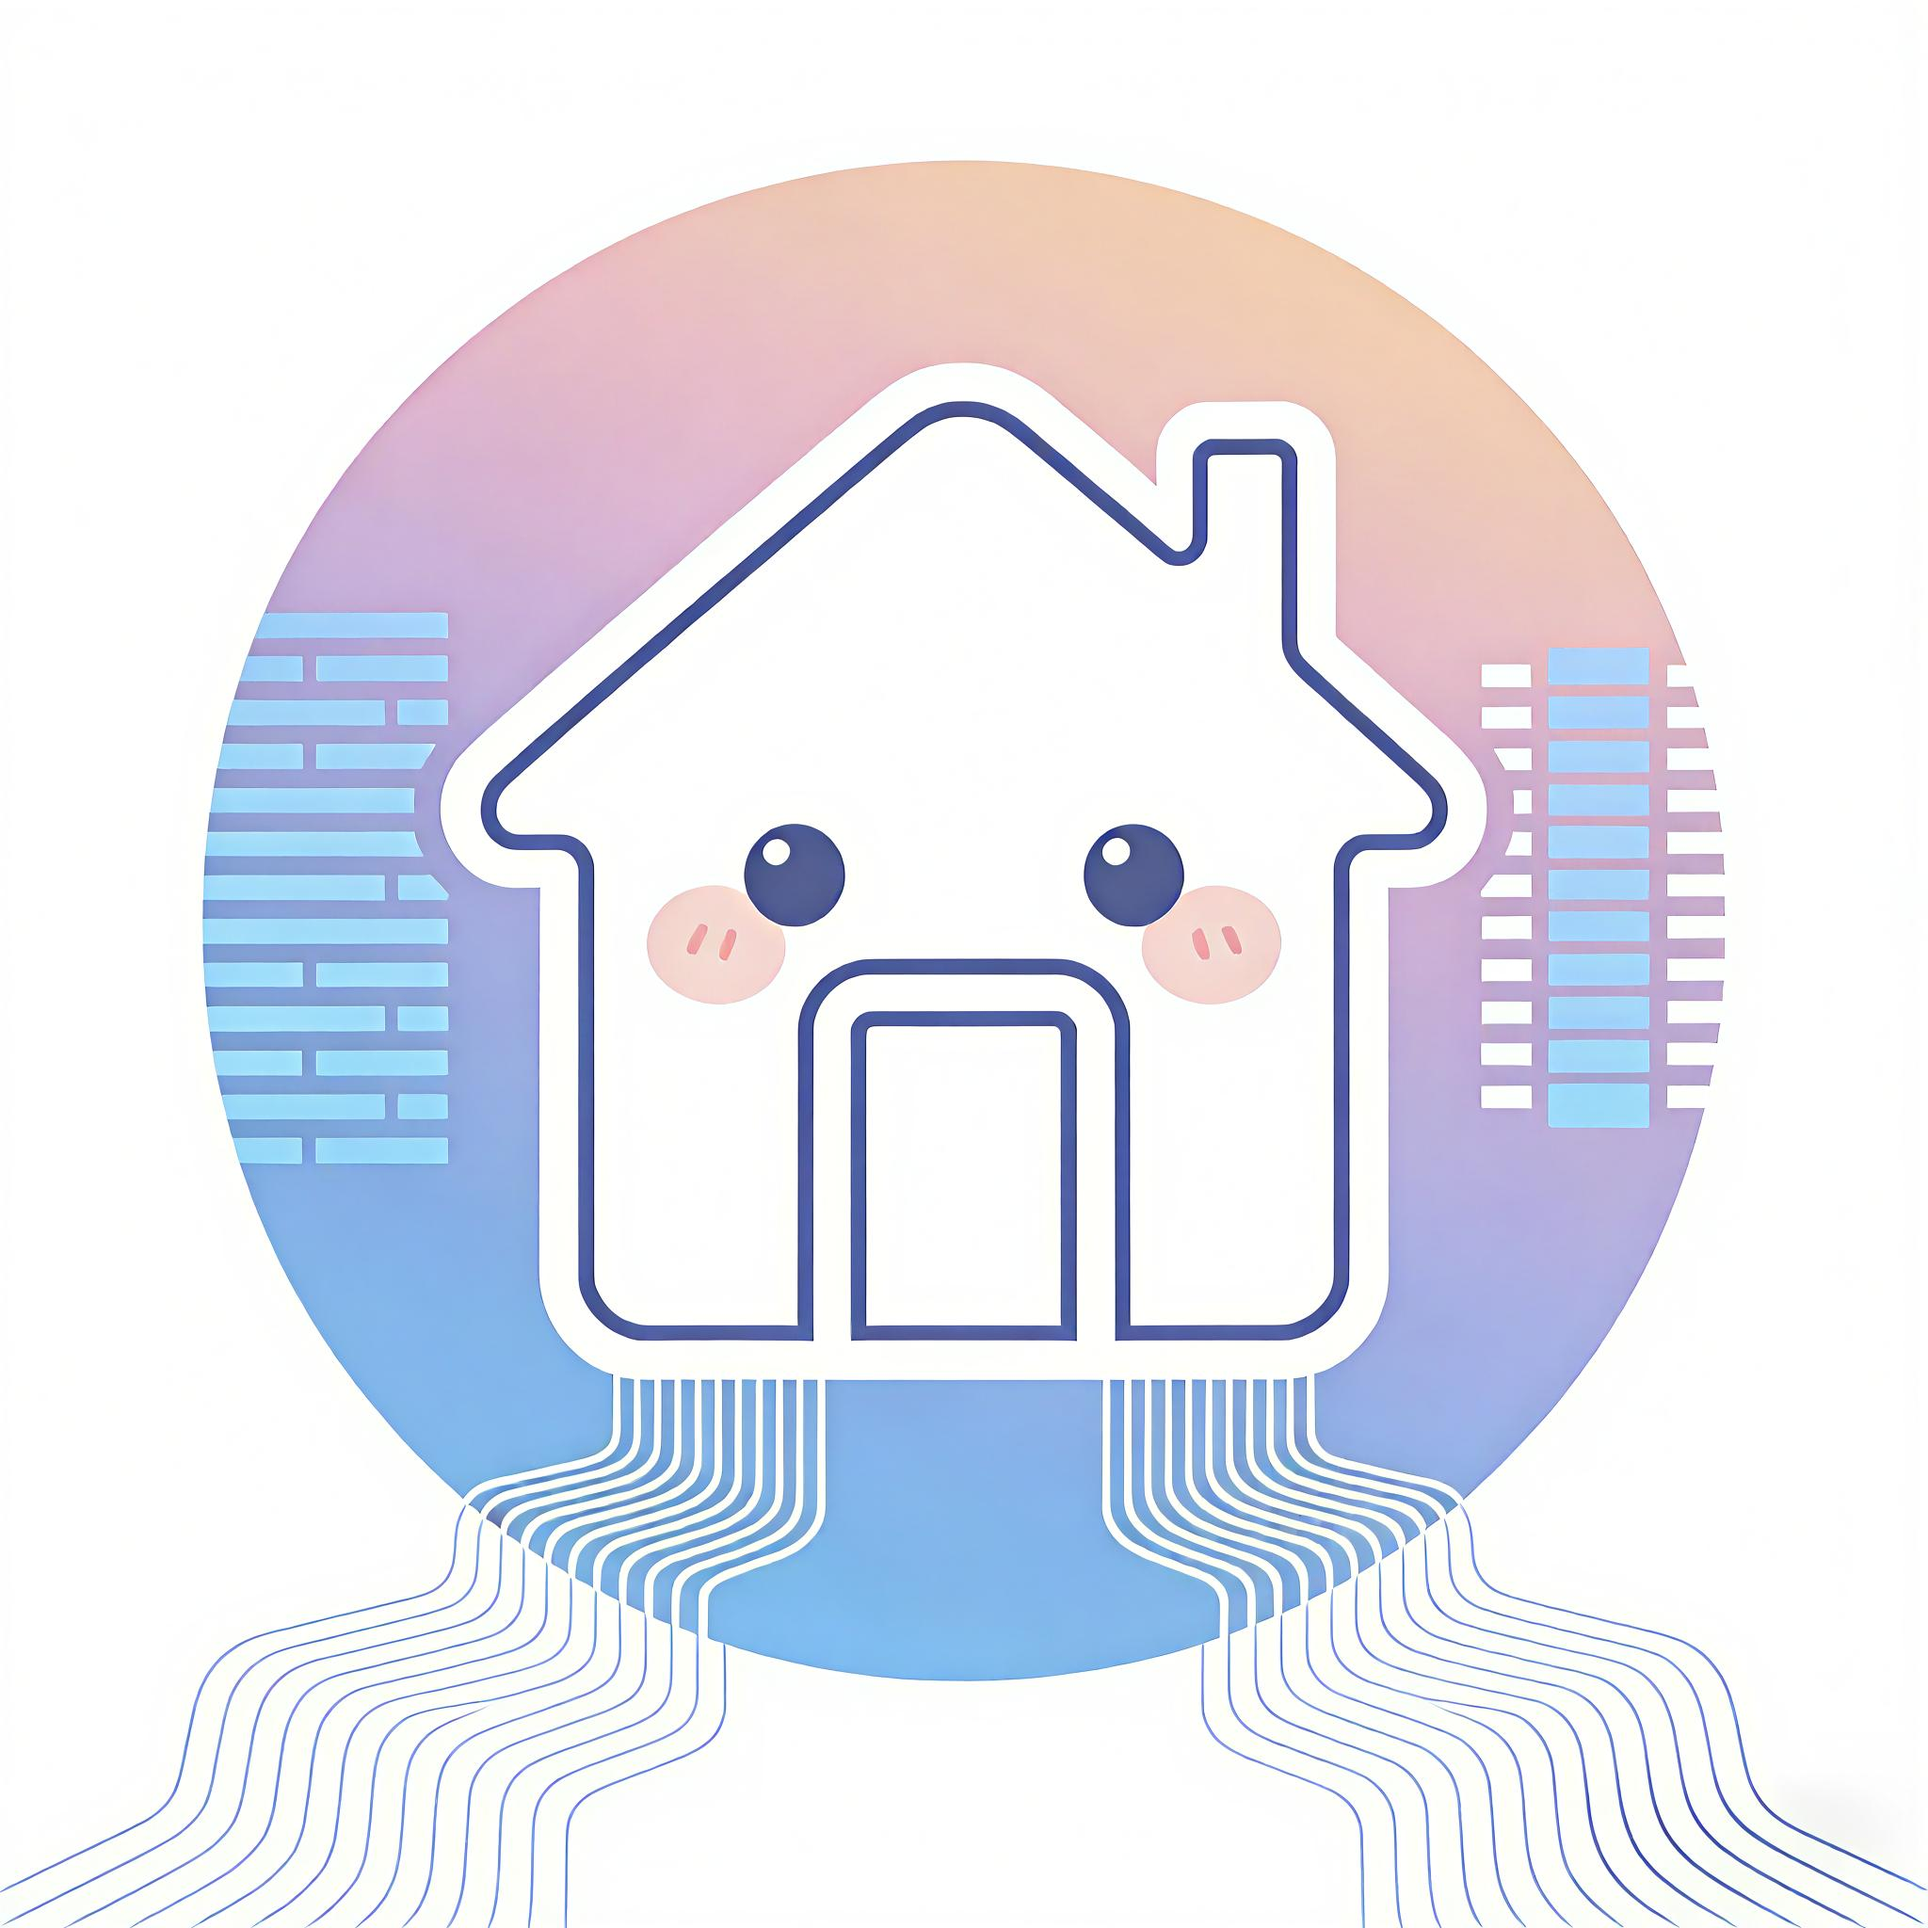
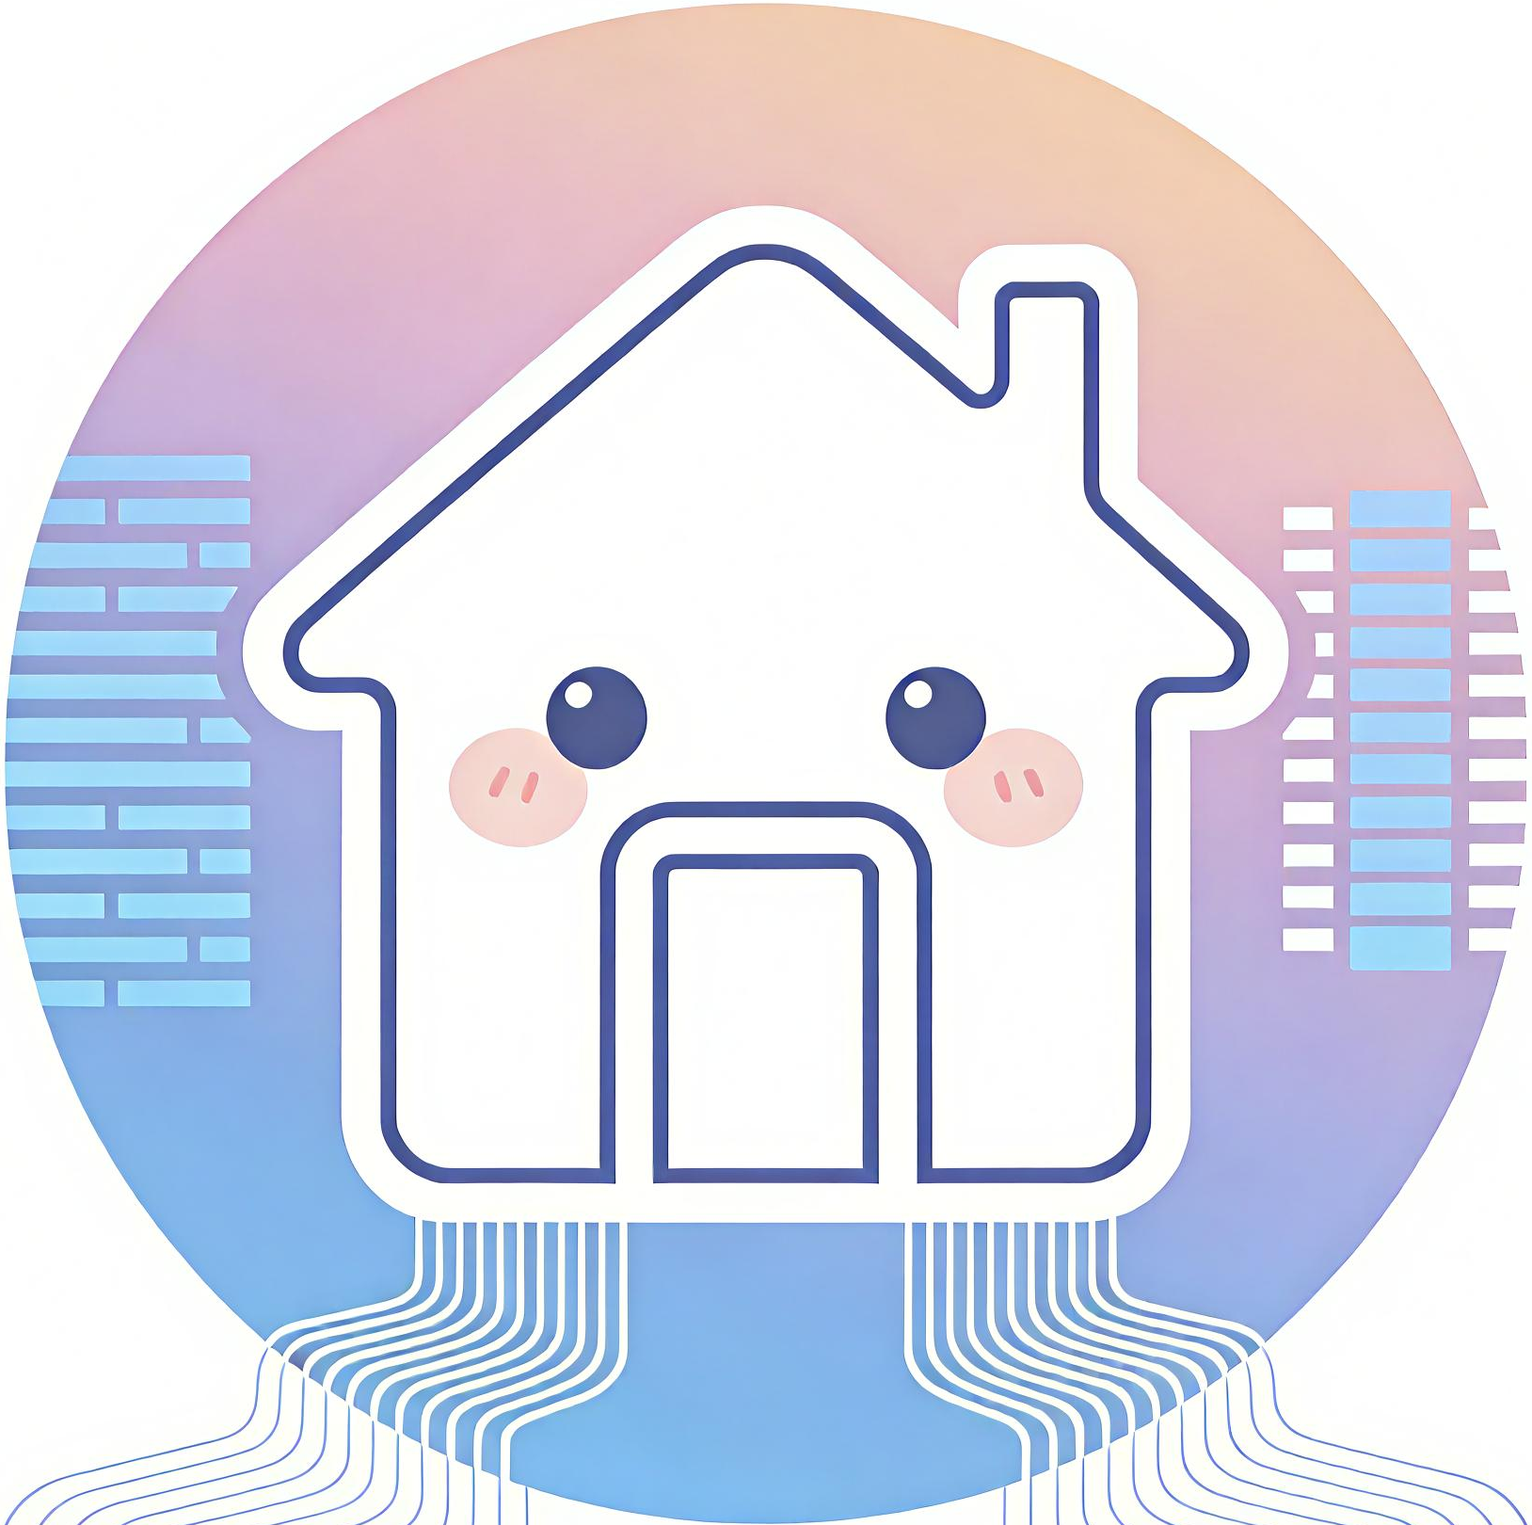
图标修改

diff --git a/Vue3/frontend/src/views/tenant/SmartMatching.vue b/Vue3/frontend/src/views/tenant/SmartMatching.vue
@@ -13,7 +13,7 @@
       <div v-for="(msg, index) in messages" :key="index" :class="['message', msg.role === 'user' ? 'user-message' : 'ai-message']">
         <div class="message-avatar">
           <img v-if="msg.role === 'user'" :src="userAvatar" alt="User">
-          <div v-else class="ai-avatar">AI</div>
+          <img v-else src="/models/IMG_20251208_160325.png" alt="AI" class="ai-avatar-img">
         </div>
         <div class="message-content">
           <div class="message-bubble">
@@ -305,6 +305,13 @@ const sendMessage = async () => {
   justify-content: center;
   font-weight: bold;
   font-size: 0.9rem;
+}
+
+.ai-avatar-img {
+  width: 100%;
+  height: 100%;
+  border-radius: 50%;
+  object-fit: cover;
 }
 
 .message-content {

diff --git a/Vue3/frontend/index.html b/Vue3/frontend/index.html
@@ -3,7 +3,7 @@
 
 <head>
   <meta charset="UTF-8">
-  <link rel="icon" href="/favicon.ico">
+  <link rel="icon" type="image/png" href="/favicon.png">
   <meta name="viewport" content="width=device-width, initial-scale=1.0">
   <title>Homesee 掌上看房</title>
   <!-- MediaPipe Hands -->
